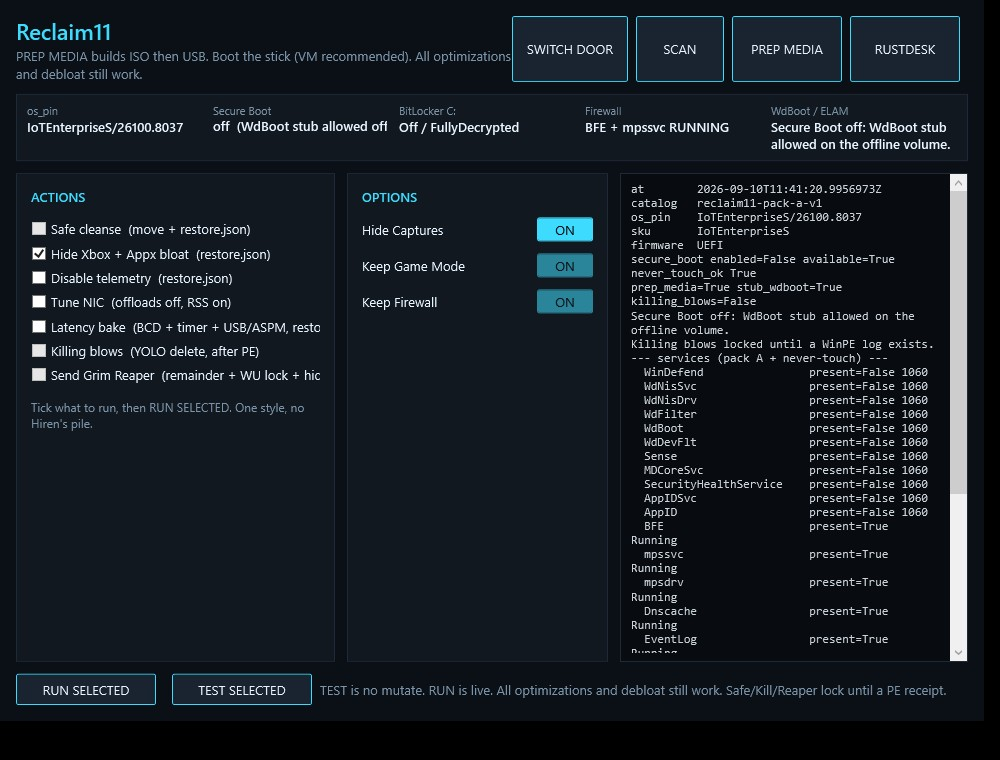
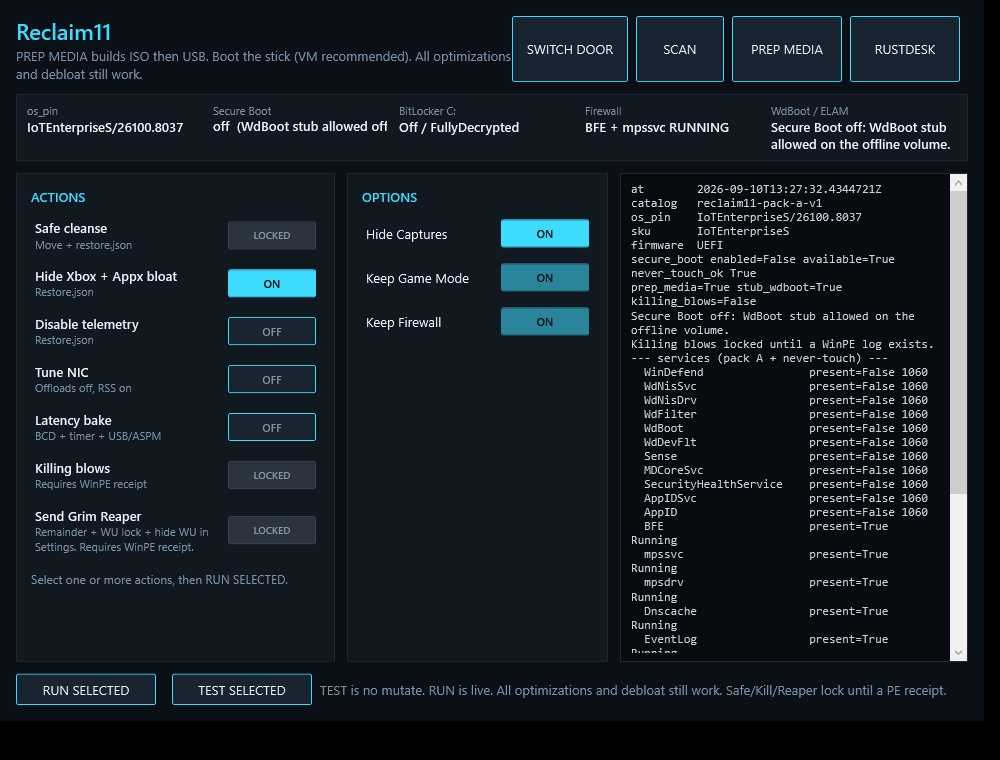
Show Reclaim11 Power User actions as BIOS ON/OFF/LOCKED toggles
ACTIONS and OPTIONS are ToggleButtons. Clicking the whole row flips
the switch. Safe/Kill/Reaper stay LOCKED until a WinPE receipt.
Recapture ExpertPanel.jpg and DoorChooser.jpg. No kit zip rebuild.

diff --git a/godbrain_core/reclaim11/ui/MainWindow.xaml b/godbrain_core/reclaim11/ui/MainWindow.xaml
@@ -48,17 +48,58 @@
       <Setter Property="Margin" Value="0,8,0,0"/>
       <Setter Property="Cursor" Value="Hand"/>
     </Style>
+    <Style x:Key="ActionRow" TargetType="Border">
+      <Setter Property="Padding" Value="4,6,4,6"/>
+      <Setter Property="Margin" Value="0,0,0,4"/>
+      <Setter Property="Background" Value="Transparent"/>
+      <Setter Property="Cursor" Value="Hand"/>
+      <Setter Property="CornerRadius" Value="2"/>
+      <Style.Triggers>
+        <Trigger Property="IsMouseOver" Value="True">
+          <Setter Property="Background" Value="#1A2430"/>
+        </Trigger>
+      </Style.Triggers>
+    </Style>
     <Style x:Key="BiosToggle" TargetType="ToggleButton">
-      <Setter Property="Width" Value="56"/>
-      <Setter Property="Height" Value="24"/>
+      <Setter Property="Width" Value="88"/>
+      <Setter Property="Height" Value="28"/>
       <Setter Property="Cursor" Value="Hand"/>
       <Setter Property="Template">
         <Setter.Value>
           <ControlTemplate TargetType="ToggleButton">
             <Border x:Name="bd" Background="#1A2430" BorderBrush="#3DDCFF" BorderThickness="1" CornerRadius="2">
               <Grid>
-                <TextBlock x:Name="on" Text="ON" Foreground="#0B0F16" HorizontalAlignment="Center" VerticalAlignment="Center" Visibility="Collapsed"/>
-                <TextBlock x:Name="off" Text="OFF" Foreground="#7A93A8" HorizontalAlignment="Center" VerticalAlignment="Center"/>
+                <TextBlock x:Name="on" Text="ON" Foreground="#0B0F16" HorizontalAlignment="Center" VerticalAlignment="Center" Visibility="Collapsed" FontWeight="SemiBold" FontSize="11"/>
+                <TextBlock x:Name="off" Text="OFF" Foreground="#7A93A8" HorizontalAlignment="Center" VerticalAlignment="Center" FontWeight="SemiBold" FontSize="11"/>
+                <TextBlock x:Name="locked" Text="LOCKED" Foreground="#8A9AAB" HorizontalAlignment="Center" VerticalAlignment="Center" Visibility="Collapsed" FontWeight="SemiBold" FontSize="10"/>
+              </Grid>
+            </Border>
+            <ControlTemplate.Triggers>
+              <Trigger Property="IsChecked" Value="True">
+                <Setter TargetName="bd" Property="Background" Value="#3DDCFF"/>
+                <Setter TargetName="on" Property="Visibility" Value="Visible"/>
+                <Setter TargetName="off" Property="Visibility" Value="Collapsed"/>
+              </Trigger>
+              <Trigger Property="IsEnabled" Value="False">
+                <Setter TargetName="bd" Property="Background" Value="#2A333E"/>
+                <Setter TargetName="bd" Property="BorderBrush" Value="#3A4654"/>
+                <Setter TargetName="on" Property="Visibility" Value="Collapsed"/>
+                <Setter TargetName="off" Property="Visibility" Value="Collapsed"/>
+                <Setter TargetName="locked" Property="Visibility" Value="Visible"/>
+              </Trigger>
+            </ControlTemplate.Triggers>
+          </ControlTemplate>
+        </Setter.Value>
+      </Setter>
+    </Style>
+    <Style x:Key="OptionToggle" TargetType="ToggleButton" BasedOn="{StaticResource BiosToggle}">
+      <Setter Property="Template">
+        <Setter.Value>
+          <ControlTemplate TargetType="ToggleButton">
+            <Border x:Name="bd" Background="#1A2430" BorderBrush="#3DDCFF" BorderThickness="1" CornerRadius="2">
+              <Grid>
+                <TextBlock x:Name="on" Text="ON" Foreground="#0B0F16" HorizontalAlignment="Center" VerticalAlignment="Center" Visibility="Collapsed" FontWeight="SemiBold" FontSize="11"/>
+                <TextBlock x:Name="off" Text="OFF" Foreground="#7A93A8" HorizontalAlignment="Center" VerticalAlignment="Center" FontWeight="SemiBold" FontSize="11"/>
               </Grid>
             </Border>
             <ControlTemplate.Triggers>
@@ -116,7 +157,7 @@
       <Button x:Name="BtnDoorRestoreCustom" Style="{StaticResource DoorBtn}">
         <StackPanel>
           <TextBlock Text="Custom Restore" FontWeight="SemiBold" Foreground="#3DDCFF"/>
-          <TextBlock Text="Power User panel in reverse. Tick what to restore from C:\reclaim11\backup."
+          <TextBlock Text="Power User panel in reverse. Select what to restore from C:\reclaim11\backup."
                      Foreground="#7A93A8" TextWrapping="Wrap" Margin="0,4,0,0"/>
         </StackPanel>
       </Button>
@@ -201,32 +242,95 @@
       <Border Grid.Column="0" Background="#121820" BorderBrush="#1E2A38" BorderThickness="1" Padding="14">
         <StackPanel>
           <TextBlock x:Name="ActionsHeader" Text="ACTIONS" Foreground="#3DDCFF" FontWeight="SemiBold" Margin="0,0,0,8"/>
-          <CheckBox x:Name="BtnSafe" Content="Safe cleanse  (move + restore.json)" IsEnabled="False"/>
-          <CheckBox x:Name="BtnXbox" Content="Hide Xbox + Appx bloat  (restore.json)"/>
-          <CheckBox x:Name="BtnTelemetry" Content="Disable telemetry  (restore.json)"/>
-          <CheckBox x:Name="BtnNic" Content="Tune NIC  (offloads off, RSS on)"/>
-          <CheckBox x:Name="BtnLatency" Content="Latency bake  (BCD + timer + USB/ASPM, restore.json)"/>
-          <CheckBox x:Name="BtnKill" Content="Killing blows  (YOLO delete, after PE)" IsEnabled="False"/>
-          <CheckBox x:Name="BtnReaper" Content="Send Grim Reaper  (remainder + WU lock + hide WU in Settings, after PE)" IsEnabled="False"/>
-          <TextBlock x:Name="ActionsHint" Foreground="#7A93A8" Margin="0,16,0,0" TextWrapping="Wrap" FontSize="12"
-                     Text="Tick what to run, then RUN SELECTED. One style, no Hiren's pile."/>
+          <Border x:Name="RowSafe" Style="{StaticResource ActionRow}">
+            <DockPanel>
+              <ToggleButton x:Name="BtnSafe" Style="{StaticResource BiosToggle}" DockPanel.Dock="Right" VerticalAlignment="Center" IsEnabled="False"/>
+              <StackPanel Margin="0,0,10,0">
+                <TextBlock Text="Safe cleanse" FontWeight="SemiBold"/>
+                <TextBlock Text="Move + restore.json" Foreground="#7A93A8" FontSize="11"/>
+              </StackPanel>
+            </DockPanel>
+          </Border>
+          <Border x:Name="RowXbox" Style="{StaticResource ActionRow}">
+            <DockPanel>
+              <ToggleButton x:Name="BtnXbox" Style="{StaticResource BiosToggle}" DockPanel.Dock="Right" VerticalAlignment="Center"/>
+              <StackPanel Margin="0,0,10,0">
+                <TextBlock Text="Hide Xbox + Appx bloat" FontWeight="SemiBold"/>
+                <TextBlock Text="Restore.json" Foreground="#7A93A8" FontSize="11"/>
+              </StackPanel>
+            </DockPanel>
+          </Border>
+          <Border x:Name="RowTelemetry" Style="{StaticResource ActionRow}">
+            <DockPanel>
+              <ToggleButton x:Name="BtnTelemetry" Style="{StaticResource BiosToggle}" DockPanel.Dock="Right" VerticalAlignment="Center"/>
+              <StackPanel Margin="0,0,10,0">
+                <TextBlock Text="Disable telemetry" FontWeight="SemiBold"/>
+                <TextBlock Text="Restore.json" Foreground="#7A93A8" FontSize="11"/>
+              </StackPanel>
+            </DockPanel>
+          </Border>
+          <Border x:Name="RowNic" Style="{StaticResource ActionRow}">
+            <DockPanel>
+              <ToggleButton x:Name="BtnNic" Style="{StaticResource BiosToggle}" DockPanel.Dock="Right" VerticalAlignment="Center"/>
+              <StackPanel Margin="0,0,10,0">
+                <TextBlock Text="Tune NIC" FontWeight="SemiBold"/>
+                <TextBlock Text="Offloads off, RSS on" Foreground="#7A93A8" FontSize="11"/>
+              </StackPanel>
+            </DockPanel>
+          </Border>
+          <Border x:Name="RowLatency" Style="{StaticResource ActionRow}">
+            <DockPanel>
+              <ToggleButton x:Name="BtnLatency" Style="{StaticResource BiosToggle}" DockPanel.Dock="Right" VerticalAlignment="Center"/>
+              <StackPanel Margin="0,0,10,0">
+                <TextBlock Text="Latency bake" FontWeight="SemiBold"/>
+                <TextBlock Text="BCD + timer + USB/ASPM" Foreground="#7A93A8" FontSize="11"/>
+              </StackPanel>
+            </DockPanel>
+          </Border>
+          <Border x:Name="RowKill" Style="{StaticResource ActionRow}">
+            <DockPanel>
+              <ToggleButton x:Name="BtnKill" Style="{StaticResource BiosToggle}" DockPanel.Dock="Right" VerticalAlignment="Center" IsEnabled="False"/>
+              <StackPanel Margin="0,0,10,0">
+                <TextBlock Text="Killing blows" FontWeight="SemiBold"/>
+                <TextBlock Text="Requires WinPE receipt" Foreground="#7A93A8" FontSize="11"/>
+              </StackPanel>
+            </DockPanel>
+          </Border>
+          <Border x:Name="RowReaper" Style="{StaticResource ActionRow}">
+            <DockPanel>
+              <ToggleButton x:Name="BtnReaper" Style="{StaticResource BiosToggle}" DockPanel.Dock="Right" VerticalAlignment="Center" IsEnabled="False"/>
+              <StackPanel Margin="0,0,10,0">
+                <TextBlock Text="Send Grim Reaper" FontWeight="SemiBold"/>
+                <TextBlock Text="Remainder + WU lock + hide WU in Settings. Requires WinPE receipt."
+                           Foreground="#7A93A8" FontSize="11" TextWrapping="Wrap"/>
+              </StackPanel>
+            </DockPanel>
+          </Border>
+          <TextBlock x:Name="ActionsHint" Foreground="#7A93A8" Margin="0,8,0,0" TextWrapping="Wrap" FontSize="12"
+                     Text="Select one or more actions, then RUN SELECTED."/>
         </StackPanel>
       </Border>
       <Border Grid.Column="2" Background="#121820" BorderBrush="#1E2A38" BorderThickness="1" Padding="14">
         <StackPanel>
-          <TextBlock Text="OPTIONS" Foreground="#3DDCFF" FontWeight="SemiBold" Margin="0,0,0,12"/>
-          <DockPanel Margin="0,0,0,12">
-            <ToggleButton x:Name="TogHideCaptures" Style="{StaticResource BiosToggle}" DockPanel.Dock="Right" IsChecked="True"/>
-            <TextBlock Text="Hide Captures" VerticalAlignment="Center"/>
-          </DockPanel>
-          <DockPanel Margin="0,0,0,12">
-            <ToggleButton x:Name="TogKeepGameMode" Style="{StaticResource BiosToggle}" DockPanel.Dock="Right" IsChecked="True" IsEnabled="False"/>
-            <TextBlock Text="Keep Game Mode" VerticalAlignment="Center"/>
-          </DockPanel>
-          <DockPanel>
-            <ToggleButton x:Name="TogNeverTouch" Style="{StaticResource BiosToggle}" DockPanel.Dock="Right" IsChecked="True" IsEnabled="False"/>
-            <TextBlock Text="Keep Firewall" VerticalAlignment="Center"/>
-          </DockPanel>
+          <TextBlock Text="OPTIONS" Foreground="#3DDCFF" FontWeight="SemiBold" Margin="0,0,0,8"/>
+          <Border x:Name="RowHideCaptures" Style="{StaticResource ActionRow}">
+            <DockPanel>
+              <ToggleButton x:Name="TogHideCaptures" Style="{StaticResource OptionToggle}" DockPanel.Dock="Right" IsChecked="True"/>
+              <TextBlock Text="Hide Captures" VerticalAlignment="Center"/>
+            </DockPanel>
+          </Border>
+          <Border x:Name="RowKeepGameMode" Style="{StaticResource ActionRow}">
+            <DockPanel>
+              <ToggleButton x:Name="TogKeepGameMode" Style="{StaticResource OptionToggle}" DockPanel.Dock="Right" IsChecked="True" IsEnabled="False"/>
+              <TextBlock Text="Keep Game Mode" VerticalAlignment="Center"/>
+            </DockPanel>
+          </Border>
+          <Border x:Name="RowKeepFirewall" Style="{StaticResource ActionRow}">
+            <DockPanel>
+              <ToggleButton x:Name="TogNeverTouch" Style="{StaticResource OptionToggle}" DockPanel.Dock="Right" IsChecked="True" IsEnabled="False"/>
+              <TextBlock Text="Keep Firewall" VerticalAlignment="Center"/>
+            </DockPanel>
+          </Border>
         </StackPanel>
       </Border>
       <DockPanel Grid.Column="4">
